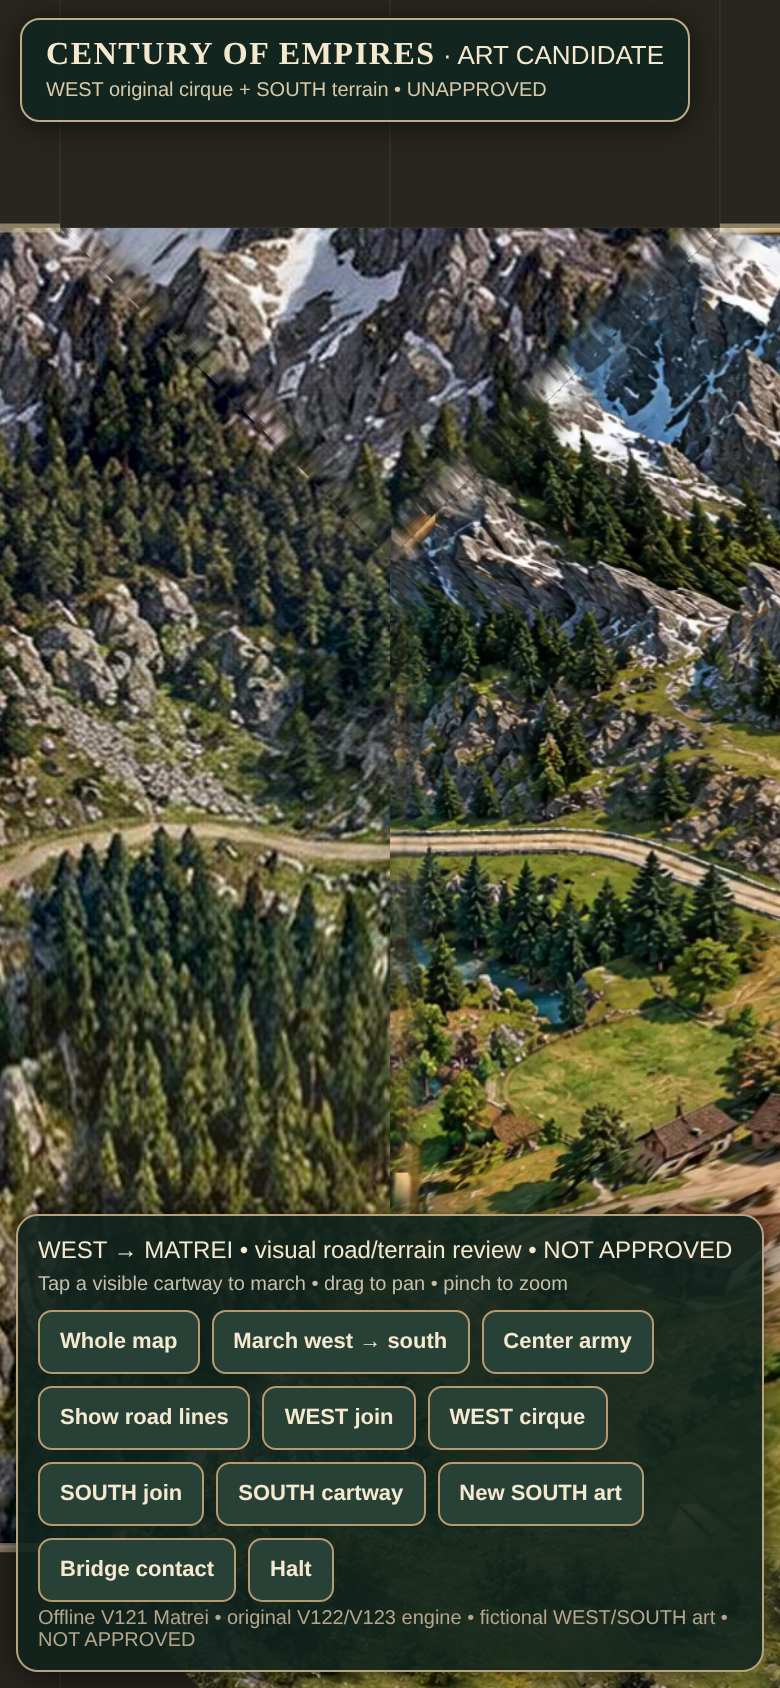
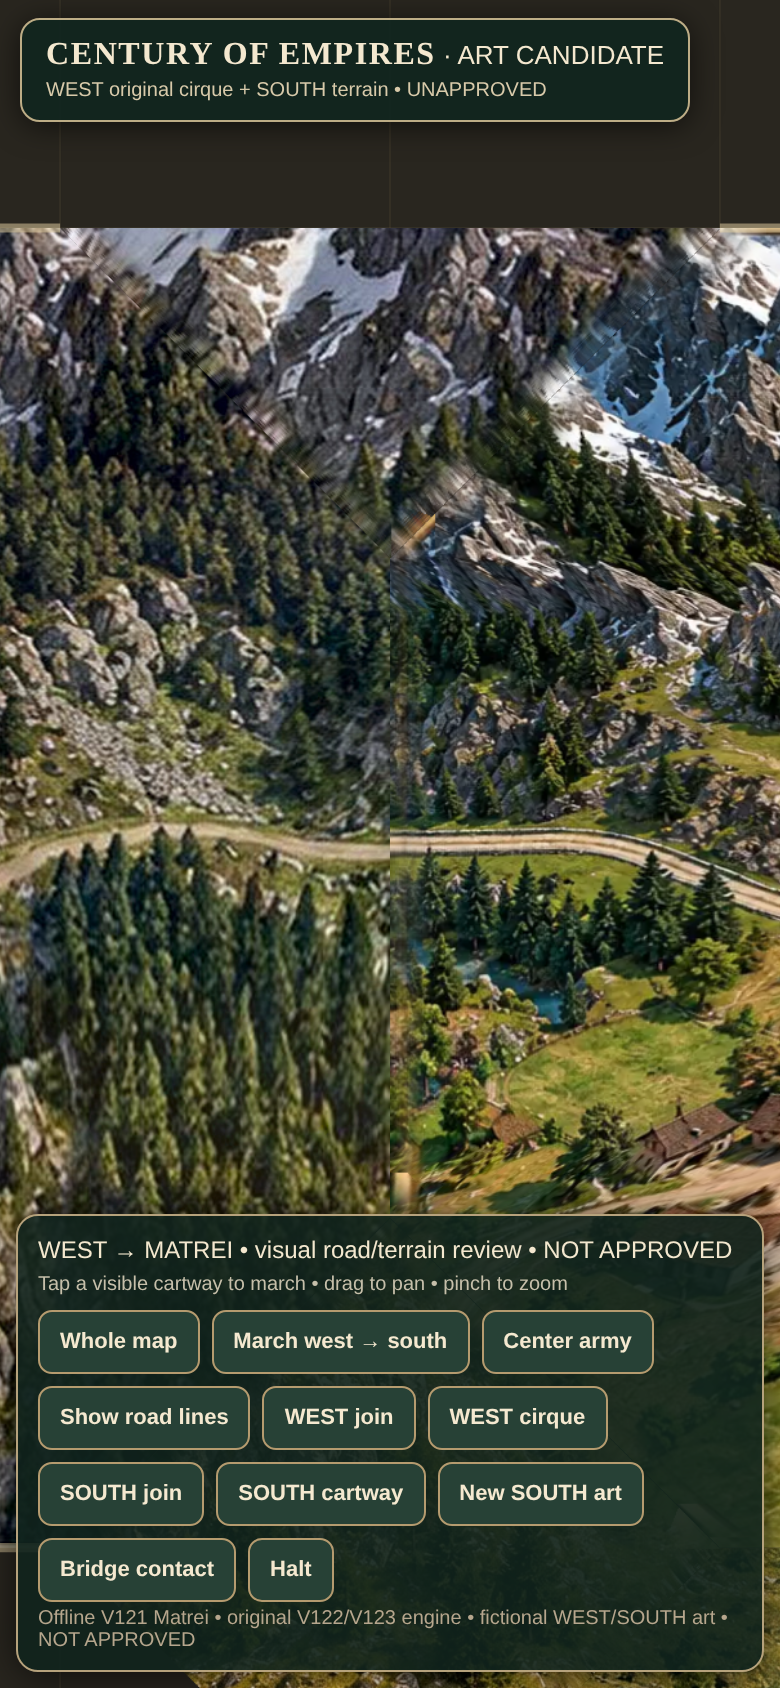
Bake coherent original WEST/SOUTH landscapes and real phone review

Changed region(s): [[0.2462, 0.8934, 1.0, 1.0]]

diff --git a/art-reviews/v267-unified-native-review.md b/art-reviews/v267-unified-native-review.md
@@ -1,8 +1,8 @@
-# Coherent WEST and SOUTH single-source Alpine art — UNAPPROVED
+# Original WEST cirque + reauthored SOUTH limestone valley — UNAPPROVED
 
-Both complete 1536x1024 landscape artworks retain their respective single original photographic compositions. WEST is a rocky cirque with a small mountain tarn; SOUTH is a separate meadow/river/stone bridge valley. No cloned trees, no synthetic green gaps, no whole-image warps and no artificial cartway strokes. Original photographic roads and bridge remain in place. Broad edge lighting is matched to the immutable V121 Matrei crop; Matrei pixels are not copied into either new artwork. These are fictional Alpine 1780–1880 game-art prototypes, not verified historic geography.
+WEST remains a complete independent high-resolution original cirque photo, graded only near its road-bearing border. SOUTH is a materially reauthored 1536x1024 photographic Alpine landscape: an independent overhead limestone and meadow source supplies its western hillside; the original native SOUTH photograph supplies the eastern conifer forest, natural river, stone bridge and the exact existing V123 cartway corridor. The abandoned base-photo road was source-inpainted before integration, preventing a duplicate road. A broad terrain-aware multiscale photo blend follows the hillside, not a rectangular green gap. No Matrei scenery is copied, no trees are warped, no artificial tan cartway is painted. This is fictional 1780-1880 game art, not verified historical topography.
 
-WEST significantly changed pixels: 217663; SOUTH: 204111.
+WEST significantly changed pixels: 217663; SOUTH: 736885.
 WEST source: b115278ee8f859ad0c329d5f33db55df803a91f691226556fc9f7d430d704d8e
 SOUTH source: 46efdd3cfd7df0163330445f7841e3e35502a317c3780f80cfd4a18444901103
-Preview: ?southArt=coherent (WEST is this isolated candidate default). Real iPhone-sized WebKit/Chromium comparisons and WEST→MATREI→SOUTH march required before approval. No V121, V123, V94, sprites, saves or production changes. Production RED.
+Review the SAME isolated ?southArt=coherent mode, comparing WEST/MATREI/SOUTH actual 390x844 mobile WebKit and Chromium screenshots and real tap-to-march. Matrei/SOUTH horizontal boundary may still be visibly abrupt; this is not approved. V121/V123/V94, sprites, saves and production unchanged. Production RED.
